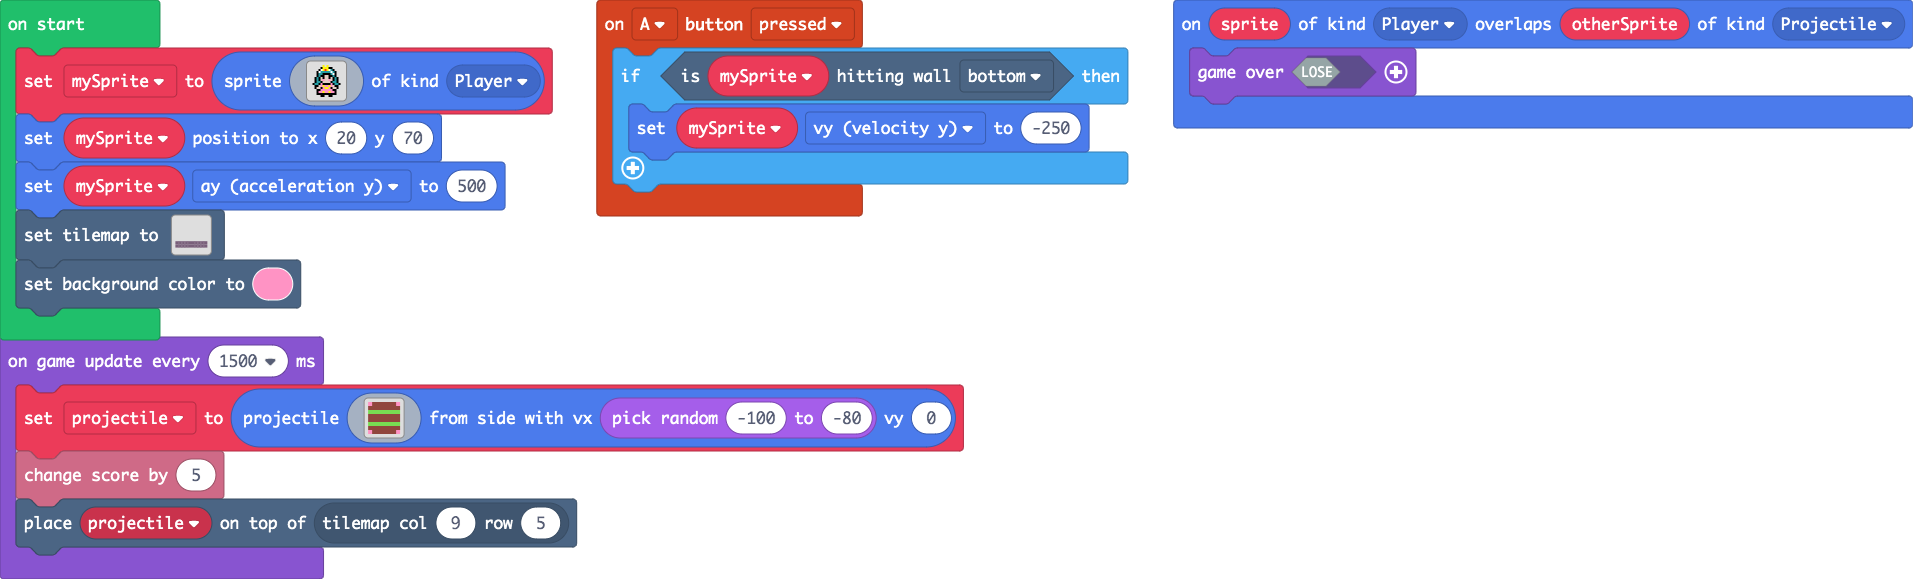
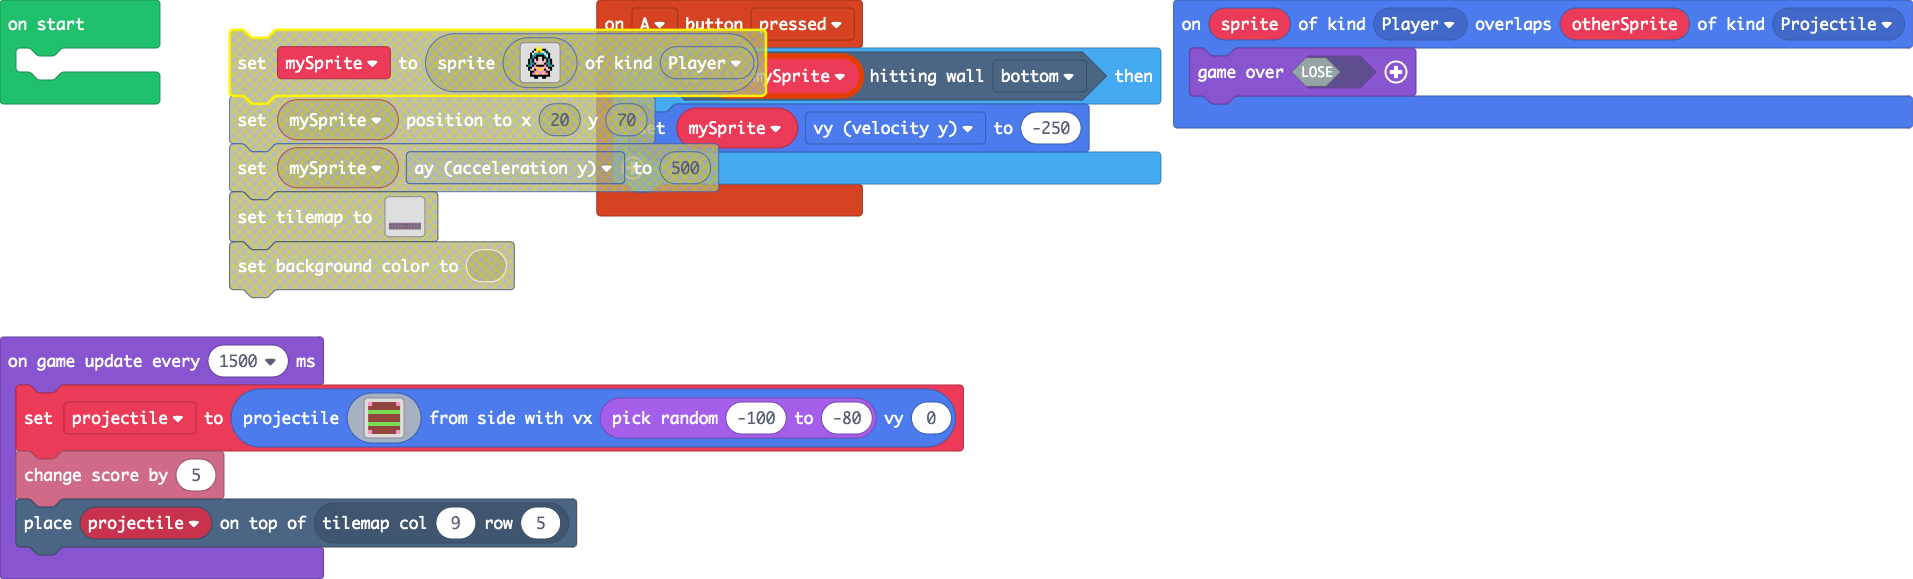
Update main.ts, main.blocks

Changed region(s): [[0.0, 0.0311, 0.6168, 0.5907], [0.586, 0.2487, 0.6168, 0.342]]

diff --git a/main.ts b/main.ts
@@ -19,52 +19,16 @@ namespace myTiles {
 . . . . . . . . . . . . . . . . 
 `
 }
+let projectile: Sprite = null
 sprites.onOverlap(SpriteKind.Player, SpriteKind.Projectile, function (sprite, otherSprite) {
     game.over(false)
 })
 controller.A.onEvent(ControllerButtonEvent.Pressed, function () {
+    let mySprite: Sprite = null
     if (mySprite.isHittingTile(CollisionDirection.Bottom)) {
         mySprite.vy = -250
     }
 })
-let projectile: Sprite = null
-let mySprite: Sprite = null
-mySprite = sprites.create(img`
-. . . . . . 5 . 5 . . . . . . . 
-. . . . . f 5 5 5 f f . . . . . 
-. . . . f 1 5 2 5 1 6 f . . . . 
-. . . f 1 6 6 6 6 6 1 6 f . . . 
-. . . f 6 6 f f f f 6 1 f . . . 
-. . . f 6 f f d d f f 6 f . . . 
-. . f 6 f d f d d f d f 6 f . . 
-. . f 6 f d 3 d d 3 d f 6 f . . 
-. . f 6 6 f d d d d f 6 6 f . . 
-. f 6 6 f 3 f f f f 3 f 6 6 f . 
-. . f f d 3 5 3 3 5 3 d f f . . 
-. . f d d f 3 5 5 3 f d d f . . 
-. . . f f 3 3 3 3 3 3 f f . . . 
-. . . f 3 3 5 3 3 5 3 3 f . . . 
-. . . f f f f f f f f f f . . . 
-. . . . . f f . . f f . . . . . 
-`, SpriteKind.Player)
-mySprite.setPosition(20, 70)
-mySprite.ay = 500
-tiles.setTilemap(tiles.createTilemap(
[1 lines of base64/hex data omitted]
-            img`
-. . . . . . . . . . 
-. . . . . . . . . . 
-. . . . . . . . . . 
-. . . . . . . . . . 
-. . . . . . . . . . 
-. . . . . . . . . . 
-2 2 2 2 2 2 2 2 2 2 
-2 2 2 2 2 2 2 2 2 2 
-`,
-            [myTiles.tile0,sprites.builtin.brick,sprites.builtin.oceanDepths0,sprites.builtin.oceanDepths3],
-            TileScale.Sixteen
-        ))
-scene.setBackgroundColor(3)
 game.onUpdateInterval(1500, function () {
     projectile = sprites.createProjectileFromSide(img`
 3 e e e e e e 3 
